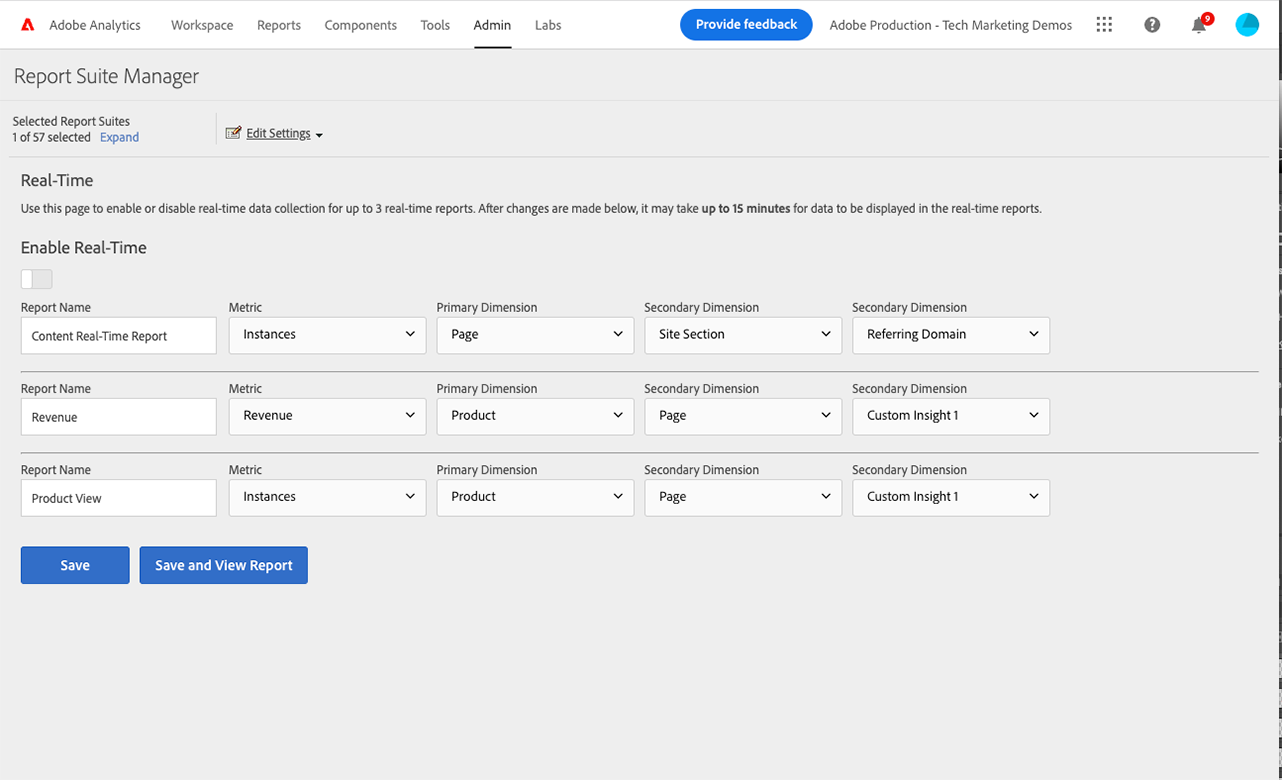
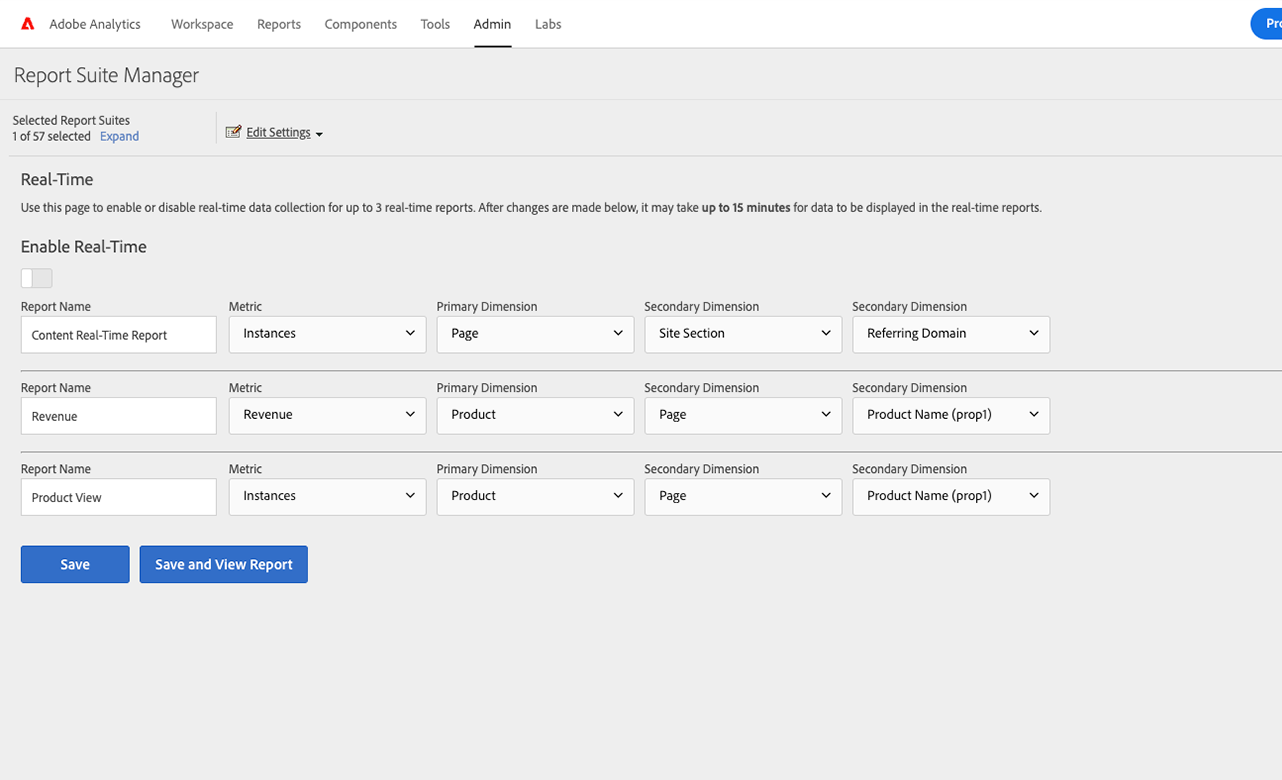
Update labels for Web SDK AA report suite

diff --git a/help/tutorial-web-sdk/setup-analytics.md b/help/tutorial-web-sdk/setup-analytics.md
@@ -534,7 +534,7 @@ In this exercise, you map one XDM variable to a prop so you can view in Real-Tim
 
     ![Analytics Purchase](assets/analytics-process-rules.png)   
 
-1. Create a rule to **[!UICONTROL Overwrite value of]** `[!UICONTROL Product SKU (prop1)]` to `a.x.productlistitems.0.namer`. Remember to add your note why you are creating the rule and name your rule title. Select **[!UICONTROL Save]**
+1. Create a rule to **[!UICONTROL Overwrite value of]** `[!UICONTROL Product Name (prop1)]` to `a.x.productlistitems.0.name`. Remember to add your note why you are creating the rule and name your rule title. Select **[!UICONTROL Save]**
 
     ![Analytics Purchase](assets/analytics-set-processing-rule.png)   
 
